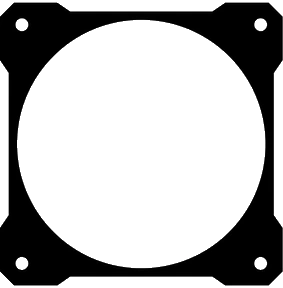
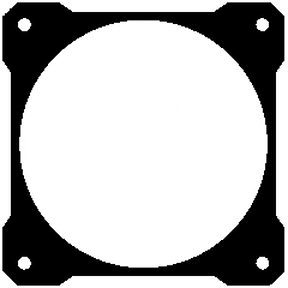
Enhanced graphics and style

diff --git a/src/renderer.ts b/src/renderer.ts
@@ -1,3 +1,4 @@
+// ! This file should be a bloated one: importing modules from other files will not work or will require to change compile options only for this file
 const cpuCircle = document.getElementById('cpu-usage-circle') as HTMLElement;
 const cpuName = document.getElementById('cpu-usage-name') as HTMLElement;
 const cpuPercentage = document.getElementById('cpu-usage-percentage') as HTMLElement;
@@ -19,6 +20,26 @@ const setCpuName = async () =>
 		.catch((error) => console.error('Error fetching CPU data:', error));
 
 /**
+ * Sets the cpu load to the cpuPercentage element and sets the animation duration of the cpuCircle element.
+ * The animation duration is calculated based on the current load of the CPU.
+ */
+const setCpuLoad = async () =>
+	await window.sysinfo
+		.getCoreLoad()
+		.then((cpuData) => {
+			console.log('cpu data:', cpuData);
+			const animationDuration = Math.max(0.2, 1 - (cpuData.currentLoad / 100) * (1 - 0.2)); // Calcola la durata dell'animazione in base al carico della CPU
+			cpuCircle.style.animationDuration = `${animationDuration}s`;
+			cpuPercentage.textContent = `${cpuData.currentLoad.toFixed(1)}%`;
+		})
+		.catch((error) => console.error('Error fetching current load data:', error));
+
+/**
+ * Sets the cpu temperature to the cpuTemperature element.
+ */
+const setCpuTemperature = () => (cpuTemperature.textContent = 'N/A °C'); // TODO: implementare il recupero della temperatura della CPU
+
+/**
  * Gets the gpu name and sets it to the gpuName element.
  */
 const setGpuName = async () =>
@@ -30,43 +51,35 @@ const setGpuName = async () =>
 		})
 		.catch((error) => console.error('Error fetching GPU data:', error));
 
-/**
- * Updates the load status of the machine
- */
-const updateStats = async () => {
-	await window.sysinfo
-		.getCoreLoad()
-		.then((cpuData) => {
-			console.log('cpu data:', cpuData);
-			const animationDuration = Math.max(0.2, 1 - (cpuData.currentLoad / 100) * (1 - 0.2)); // Calcola la durata dell'animazione in base al carico della CPU
-			cpuCircle.style.animationDuration = `${animationDuration}s`;
-			cpuPercentage.textContent = `${cpuData.currentLoad.toFixed(1)}%`;
-		})
-		.catch((error) => console.error('Error fetching current load data:', error));
-
+const setGpuMemoryLoad = async () =>
 	await window.sysinfo
 		.getGpuMemory()
 		.then((gpuMemoryData) => {
-			if (gpuMemoryData) {
-				gpuPercentage.textContent = `${((gpuMemoryData.used / gpuMemoryData.total) * 100).toFixed(1)}%`;
-			} else {
-				gpuPercentage.textContent = 'N/A';
-			}
+			gpuPercentage.textContent = gpuMemoryData
+				? `${((gpuMemoryData.used / gpuMemoryData.total) * 100).toFixed(1)}%`
+				: 'N/A';
 		})
 		.catch((error) => console.error('Error fetching GPU memory data:', error));
 
+const setGpuTemperature = async () =>
 	await window.sysinfo
 		.getGpuTemperature()
 		.then((tempData) => {
-			if (tempData) {
-				gpuTemperature.textContent = `${tempData}°C`;
-			} else {
-				gpuTemperature.textContent = 'N/A';
-			}
+			gpuTemperature.textContent = tempData ? `${tempData}°C` : 'N/A';
 		})
 		.catch((error) => console.error('Error fetching GPU temperature data:', error));
+
+/**
+ * Updates the load status of the machine.
+ * This function is called every 3 seconds.
+ */
+const updateStats = async () => {
+	await setCpuLoad();
+	await setGpuMemoryLoad();
+	await setGpuTemperature();
 };
 
 setCpuName();
+setCpuTemperature(); // TODO: move into updateStats when implemented
 setGpuName();
 setInterval(updateStats, 3000); // aggiorna ogni 3 sec

diff --git a/src/index.html b/src/index.html
@@ -8,25 +8,62 @@
 		/>
 	</head>
 	<body>
-		<div id="cpu-usage-container">
-			<div id="cpu-usage-icon">
+		<div>
+			<div
+				id="cpu-usage-container"
+				class="grid-container"
+			>
 				<div
-					id="cpu-usage-circle"
-					class="circle"
-				></div>
+					id="cpu-usage-icon"
+					class="grid-item"
+				>
+					<div
+						id="cpu-usage-circle"
+						class="circle"
+					></div>
+				</div>
+				<div
+					id="cpu-usage-info"
+					class="grid-item"
+				>
+					<div>[CPU]</div>
+					<div
+						id="cpu-usage-name"
+						class="text-ellipsis"
+					>
+						...
+					</div>
+					<div id="cpu-usage-percentage">...%</div>
+					<div id="cpu-usage-temperature">...°C</div>
+				</div>
 			</div>
-			<div id="cpu-usage-info">
-				<div id="cpu-usage-name">...</div>
-				<div id="cpu-usage-percentage">...%</div>
-				<div id="cpu-usage-temperature">...°C</div>
-			</div>
-		</div>
-		<div id="gpu-usage-container">
-			<div id="gpu-usage-icon"></div>
-			<div id="gpu-usage-info">
-				<div id="gpu-usage-name">...</div>
-				<div id="gpu-usage-percentage">...%</div>
-				<div id="gpu-usage-temperature">...°C</div>
+			<div
+				id="gpu-usage-container"
+				class="grid-container"
+			>
+				<div
+					id="gpu-usage-icon"
+					class="grid-item"
+				>
+					<div
+						id="gpu-usage-circle"
+						class="circle"
+					></div>
+				</div>
+				<div
+					id="gpu-usage-info"
+					class="grid-item"
+				>
+					<div>[GPU]</div>
+					<div
+						id="gpu-usage-name"
+						class="text-ellipsis"
+					>
+						...
+					</div>
+					<div id="gpu-usage-percentage">...%</div>
+					<div id="gpu-usage-temperature">...°C</div>
+				</div>
 			</div>
 		</div>
 		<script src="renderer.js"></script>

diff --git a/static/style.css b/static/style.css
@@ -1,49 +1,29 @@
+@import url('./css/animations.css');
+@import url('./css/gridStyle.css');
+@import url('./css/cpuStyle.css');
+@import url('./css/gpuStyle.css');
+
+:root {
+	--standard-margin: 8px;
+	--icon-responsive-size: clamp(60px, 25vh + 7vw, 120px);
+}
+
 body {
 	background: rgba(30, 30, 30, 0.6);
-	font-family: sans-serif;
+	font-family: monospace;
 	color: white;
+	font-size: clamp(14px, 2vw + 1vh, 24px);
 	margin: 0;
 	padding: 10px;
 }
 
-#cpu-usage-container {
-	width: 100%;
-	height: auto;
-	display: flex;
-	flex-direction: row;
-}
-
-#cpu-usage-icon {
-	width: 32vh;
-	height: 32vh;
-	display: flex;
-	justify-content: center;
-	align-items: center;
-	background: url('images/cpu-container.png') no-repeat center center;
-	background-size: contain;
-}
-
-#cpu-usage-circle {
-	width: 85%;
-	height: 85%;
-	background: url('images/cpu-fan.png') no-repeat center center;
-	background-size: contain;
-	animation: spin 1s linear infinite;
-}
-
-#gpu-usage-container {
-	width: 100%;
-	height: auto;
-	display: flex;
-	flex-direction: row;
-}
-
-@keyframes spin {
-	0% {
-		transform: rotate(0deg);
-	}
-	100% {
-		transform: rotate(360deg);
-	}
+.text-ellipsis {
+	max-width: 100%;
+	display: -webkit-box;
+	line-clamp: 1; /* number of lines you want to show */
+	-webkit-line-clamp: 1; /* number of lines you want to show */
+	-webkit-box-orient: vertical;
+	overflow: hidden;
+	text-overflow: ellipsis;
 }
 

diff --git a/static/css/cpuStyle.css b/static/css/cpuStyle.css
@@ -1,0 +1,19 @@
+#cpu-usage-icon {
+	width: var(--icon-responsive-size);
+	height: var(--icon-responsive-size);
+	display: flex;
+	justify-content: center;
+	align-items: center;
+	background: url('../images/cpu-container.png') no-repeat center center;
+	background-size: contain;
+	margin-right: var(--standard-margin);
+}
+
+#cpu-usage-circle {
+	width: 100%;
+	height: 100%;
+	background: url('../images/cpu-fan.png') no-repeat center center;
+	background-size: contain;
+	animation: spin 1s linear infinite;
+}
+

diff --git a/static/css/gpuStyle.css b/static/css/gpuStyle.css
@@ -1,0 +1,19 @@
+#gpu-usage-icon {
+	width: var(--icon-responsive-size);
+	height: var(--icon-responsive-size);
+	display: flex;
+	justify-content: center;
+	align-items: center;
+	background: url('../images/gpu-container.png') no-repeat center center;
+	background-size: contain;
+	margin-right: var(--standard-margin);
+}
+
+#gpu-usage-circle {
+	width: 100%;
+	height: 100%;
+	background: url('../images/gpu-fan.png') no-repeat center center;
+	background-size: contain;
+	animation: spin 1s linear infinite;
+}
+

diff --git a/static/css/gridStyle.css b/static/css/gridStyle.css
@@ -1,0 +1,15 @@
+.grid-container {
+	display: grid;
+	grid-template-columns: 1fr 5fr 1fr; /* 3 columns: the second is 5 times wider */
+	gap: 16px; /* spacing between items */
+	margin: 8px auto; /* center the grid */
+}
+
+.grid-item {
+	grid-column: span 1; /* spans 1 of the 5 columns */
+	display: flex;
+	flex-direction: column;
+	justify-content: center;
+	align-items: flex-start;
+}
+

diff --git a/src/main.ts b/src/main.ts
@@ -3,9 +3,9 @@ import { join } from 'path';
 
 const createWindow = () => {
 	const win = new BrowserWindow({
-		width: 420,
+		width: 350,
 		height: 200,
-		minWidth: 300,
+		minWidth: 350,
 		minHeight: 200,
 		frame: false, // niente barra finestra = stile widget
 		transparent: true,

diff --git a/static/css/animations.css b/static/css/animations.css
@@ -1,0 +1,9 @@
+@keyframes spin {
+	0% {
+		transform: rotate(0deg);
+	}
+	100% {
+		transform: rotate(360deg);
+	}
+}
+
